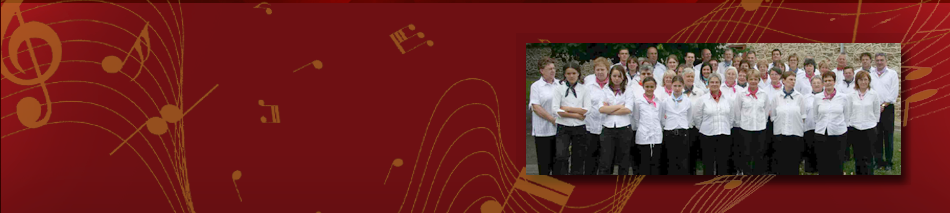
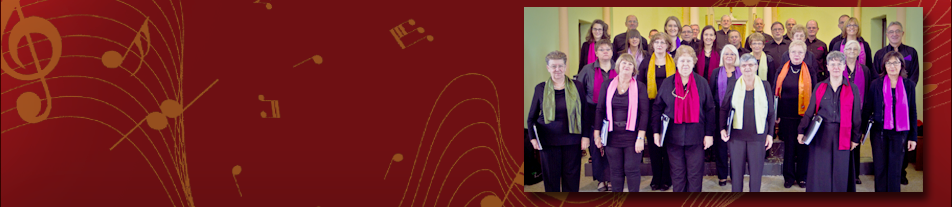
Correction image chorale // Suppression annonce concert décembre

diff --git a/src/lavilenelle/skin/static/index.html b/src/lavilenelle/skin/static/index.html
@@ -25,12 +25,14 @@
 
             <div id="top-main">
                 <div id="top-info">
+                    <!--
                     <h3>Prochain concert</h3>
                     <p>
                     Concert de Noël<br />
                     Le 13-12-2013 à 20h00<br />
                     Villers-Poterie<br />
                     </p>
+                    -->
                 </div>
             </div>
         </div><!--header-->
